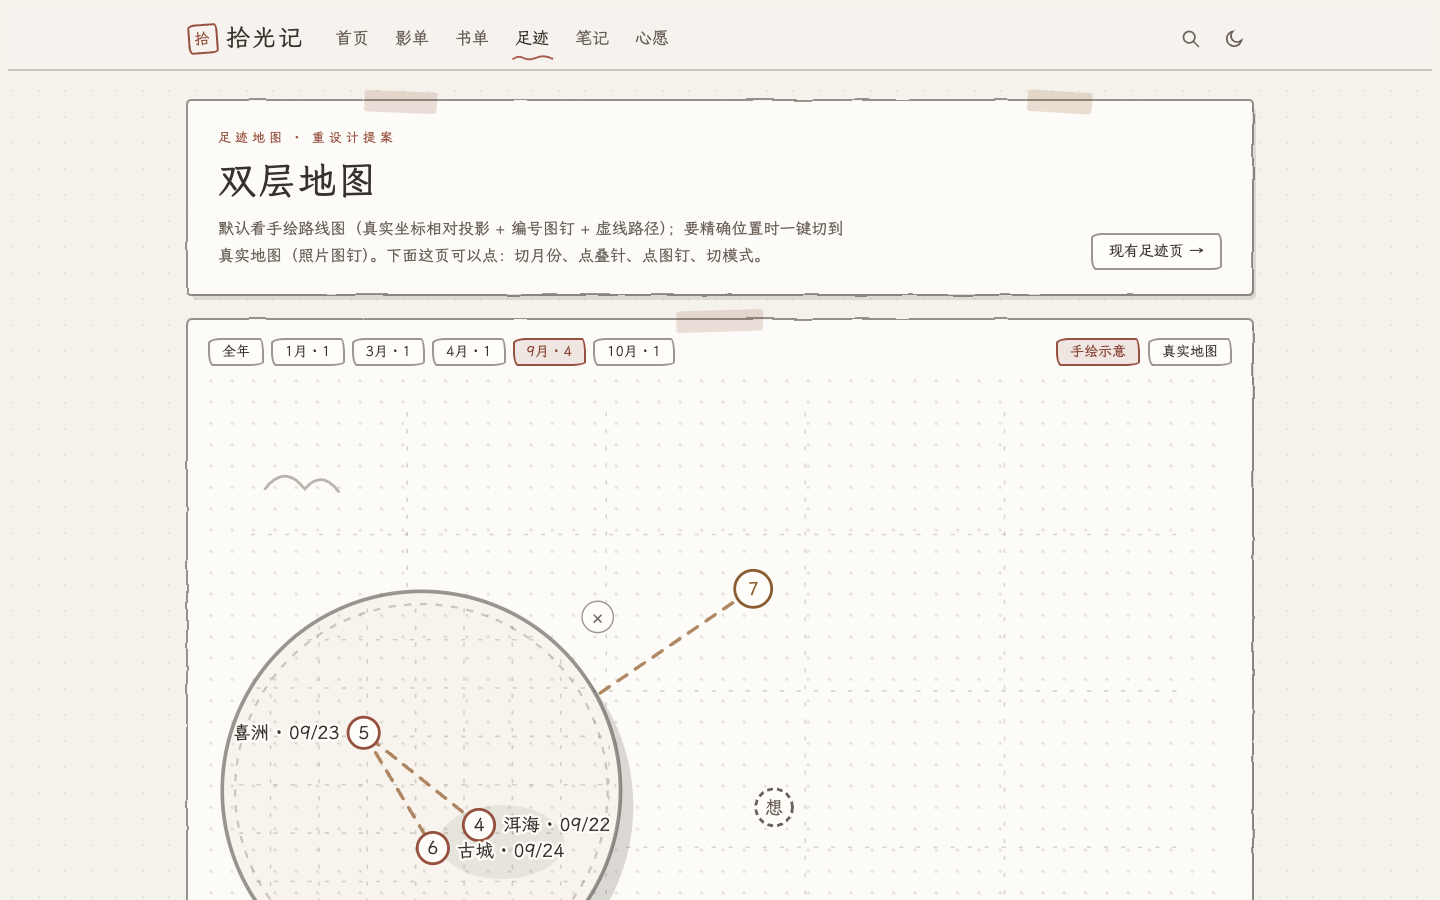
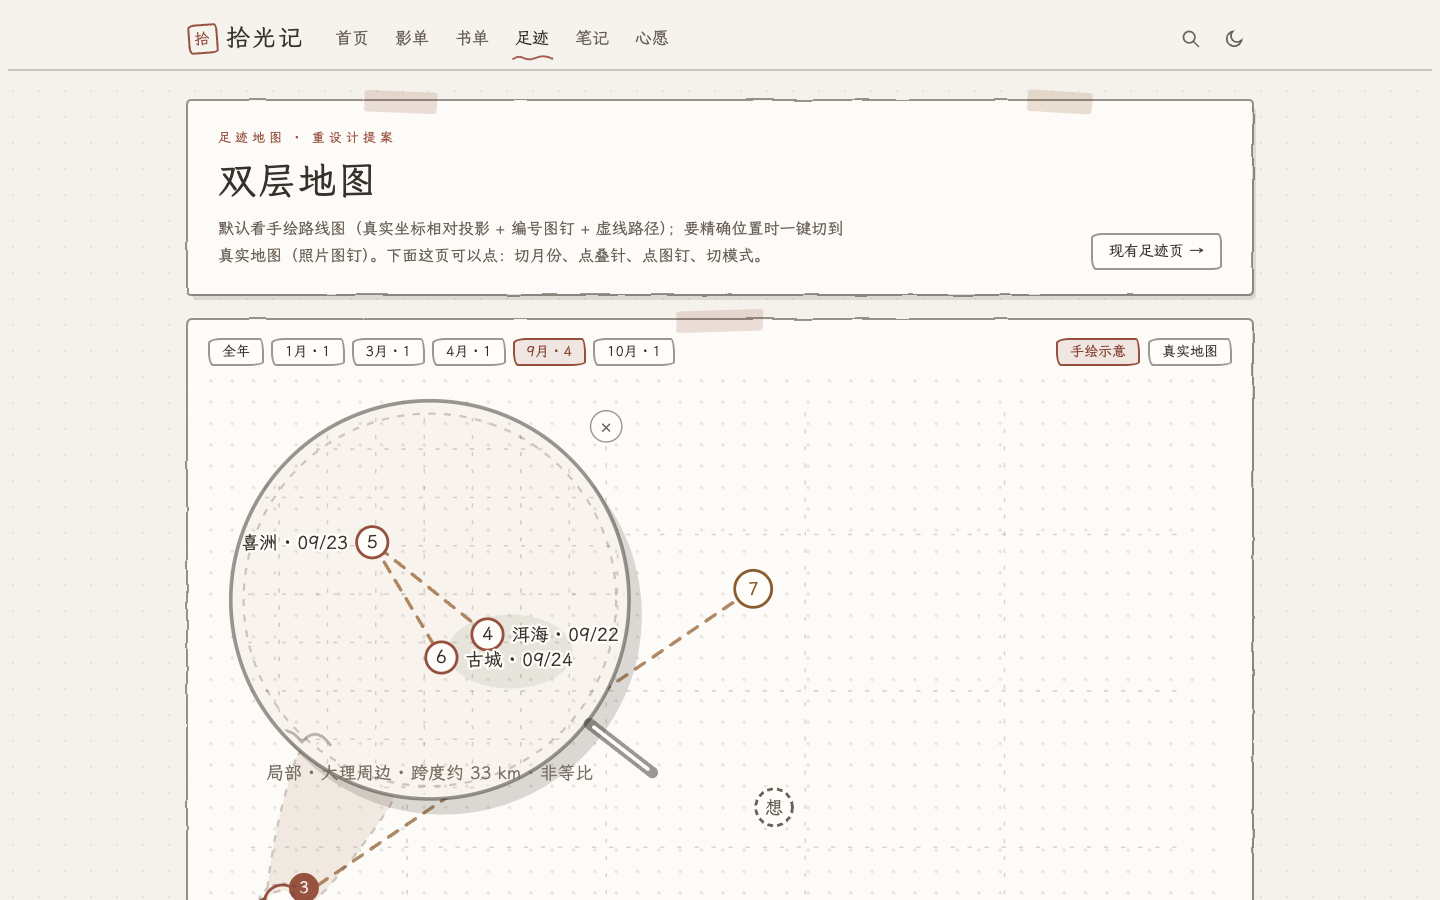
docs(handdrawn): 放大镜与叠针之间加圆锥光路
- 镜片悬浮在簇的斜上方（方向自适应：锥长 ≥70px 且镜片不出画布，不再压住簇）
- 镜沿到叠针画一条手绘圆锥光路：宽头沿镜缘（74px 弧）、窄头箍住叠针
  （26px 弧 + 虚线箍圈），两侧微鼓的曲线，暖色半透明填充 + 虚线描边
  ——一眼看出这面镜子放大的是哪一坨

diff --git a/docs/design/mockups/handdrawn-0.0.6/travel-map.html b/docs/design/mockups/handdrawn-0.0.6/travel-map.html
@@ -70,6 +70,11 @@
 .page-mapdoc .lens-handle { stroke: var(--hd-line); stroke-width: 8; stroke-linecap: round }
 .page-mapdoc .lens-handle-in { stroke: var(--hd-paper); stroke-width: 2.6; stroke-linecap: round }
 .page-mapdoc .lens-leader { stroke: var(--hd-line-soft); stroke-width: 1.8; stroke-dasharray: 4 5; fill: none }
+.page-mapdoc .lens-cone {
+  fill: rgba(156, 107, 63, .12);
+  stroke: var(--hd-line-soft); stroke-width: 1.6; stroke-dasharray: 5 6;
+}
+.page-mapdoc .lens-anchor { fill: none; stroke: var(--hd-line-soft); stroke-width: 1.8; stroke-dasharray: 3 4 }
 
 /* 真实地图模式（伪高德：浅灰路网 + 照片图钉） */
 .page-mapdoc .real-map {
@@ -252,7 +257,7 @@
         <tr><td class="k">投影</td><td>等距圆柱<b>相对投影</b>：把全部足迹的经纬度包围盒映射到纸面（国内外地点通吃），保持方位关系；页角常驻「示意位置 · 非比例」。投影框按<b>全部足迹</b>计算，月份筛选不改变它。</td></tr>
         <tr><td class="k">防重叠 · 位移</td><td>图钉最小间距 52px；力导向互斥微位移，单针位移上限 26px——只「挪半步」，方位感不破坏。</td></tr>
         <tr><td class="k">防重叠 · 聚合</td><td>位移后仍 &lt;30px（同城多点）→ 合成<b>叠针</b>（三针叠放 + 数量角标），停在真实位置；不去伪造间隔。</td></tr>
-        <tr><td class="k">放大镜</td><td>点叠针 → 一枚更大的玻璃镜片<b>压在那一坨上</b>：原图一切不动，镜片不透明底盖住叠针，镜内是一张<b>新的局部手绘小地图</b>（视口 = 簇内点经纬度包围盒，留 32% 余量，窄轴拉伸撑满内接方形的范围视图），三点自然展开，标注实际跨度 km 与「非等比」；镜片被画布边界推离簇时补一条虚线指引；同坐标 → 纸片列表兜底；点镜外或 × 复原。</td></tr>
+        <tr><td class="k">放大镜</td><td>点叠针 → 一枚更大的玻璃镜片<b>压在那一坨上</b>：原图一切不动，镜片不透明底盖住叠针，镜内是一张<b>新的局部手绘小地图</b>（视口 = 簇内点经纬度包围盒，留 32% 余量，窄轴拉伸撑满内接方形的范围视图），三点自然展开，标注实际跨度 km 与「非等比」；镜片悬浮在簇的斜上方（方向自适应、不出画布），镜沿到叠针之间画一条<b>圆锥光路</b>（宽头贴镜、窄头箍住叠针）标明展示对象；同坐标 → 纸片列表兜底；点镜外或 × 复原。</td></tr>
         <tr><td class="k">月份口径</td><td>按 finishDate 归月；胶囊只列<b>有足迹的月份</b>并带数量（空月不出现）；默认「全年」；切换只重画路径与图钉。</td></tr>
         <tr><td class="k">路径</td><td>选中范围内按日期升序串联成虚线路径；仅 1 个点不画线；<b>想去不进路径</b>。</td></tr>
         <tr><td class="k">想去</td><td>虚线图钉常显，不受月份筛选影响；点开是想去态详情（可定日子）。</td></tr>
@@ -446,9 +451,16 @@ function openLens(G, cx, cy) {
   var R = 140;
   var members = G.items.slice().sort(function (a, b) { return (a.d || '').localeCompare(b.d || ''); });
 
-  /* 玻璃中心：尽量压住簇，但不许出了地图画布 */
-  var gx = Math.min(Math.max(cx, R + 10), VB.w - R - 10);
-  var gy = Math.min(Math.max(cy, R + 10), VB.h - R - 10);
+  /* 玻璃悬浮在簇的斜上方：按候选方向找一处「锥长 ≥70 且镜片不出画布」的位置 */
+  var gx = cx, gy = cy;
+  var cands = [-1.15, -0.55, -1.8, -2.5, 0.55, 1.05, 2.6, 3.5];
+  for (var ci = 0; ci < cands.length; ci++) {
+    var ux = Math.cos(cands[ci]), uy = Math.sin(cands[ci]);
+    var wx = Math.min(Math.max(cx + ux * (R + 105), R + 16), VB.w - R - 16);
+    var wy = Math.min(Math.max(cy + uy * (R + 105), R + 16), VB.h - R - 16);
+    gx = wx; gy = wy;
+    if (Math.hypot(gx - cx, gy - cy) >= R + 70) break;
+  }
 
   /* 局部地图视口 = 簇内经纬度包围盒（留 32% 余量），两轴各自撑满圆的内接方形
      （范围视图：窄轴会拉伸，标注「非等比」与实际范围公里数） */
@@ -469,11 +481,27 @@ function openLens(G, cx, cy) {
 
   var lens = el('g', {}, handMap);
 
-  /* 若玻璃被画布边界推离了簇，画一条虚线把两者连起来 */
-  if (Math.hypot(gx - cx, gy - cy) > 30) {
-    var a = Math.atan2(cy - gy, cx - gx);
-    el('path', { class: 'lens-leader', d: 'M' + (gx + Math.cos(a) * (R + 4)) + ' ' + (gy + Math.sin(a) * (R + 4)) + ' L' + cx + ' ' + cy }, lens);
-  }
+  /* 圆锥光路：宽头贴镜沿、窄头箍住叠针——放大镜看的就是这一坨 */
+  var a = Math.atan2(cy - gy, cx - gx);
+  var perp = a + Math.PI / 2;
+  var W1 = 74, W2 = 26;
+  var rx = gx + Math.cos(a) * (R + 2), ry = gy + Math.sin(a) * (R + 2);
+  function pt(px, py, w, k) { return (px + Math.cos(perp) * w / 2 * k) + ' ' + (py + Math.sin(perp) * w / 2 * k); }
+  var ax = rx + Math.cos(perp) * W1 / 2, ay = ry + Math.sin(perp) * W1 / 2;
+  var bx = rx - Math.cos(perp) * W1 / 2, by = ry - Math.sin(perp) * W1 / 2;
+  var ex = cx + Math.cos(perp) * W2 / 2, ey = cy + Math.sin(perp) * W2 / 2;
+  var fx = cx - Math.cos(perp) * W2 / 2, fy = cy - Math.sin(perp) * W2 / 2;
+  var m1x = (ax + ex) / 2 + Math.cos(perp) * 6, m1y = (ay + ey) / 2 + Math.sin(perp) * 6;
+  var m2x = (bx + fx) / 2 - Math.cos(perp) * 6, m2y = (by + fy) / 2 - Math.sin(perp) * 6;
+  el('path', {
+    class: 'lens-cone',
+    d: 'M' + ax + ' ' + ay + ' Q' + m1x + ' ' + m1y + ' ' + ex + ' ' + ey +
+       ' A' + (W2 / 2) + ' ' + (W2 / 2) + ' 0 0 1 ' + fx + ' ' + fy +
+       ' Q' + m2x + ' ' + m2y + ' ' + bx + ' ' + by +
+       ' A' + (W1 / 2) + ' ' + (W1 / 2) + ' 0 0 0 ' + ax + ' ' + ay + ' Z'
+  }, lens);
+  /* 窄头的箍圈：锚在叠针上 */
+  el('circle', { class: 'lens-anchor', cx: cx, cy: cy, r: W2 / 2 + 5 }, lens);
 
   /* 投影 + 影子 + 不透明玻璃底：把那一坨盖住 */
   el('circle', { cx: gx + 9, cy: gy + 11, r: R, fill: 'rgba(40,34,28,.16)' }, lens);
